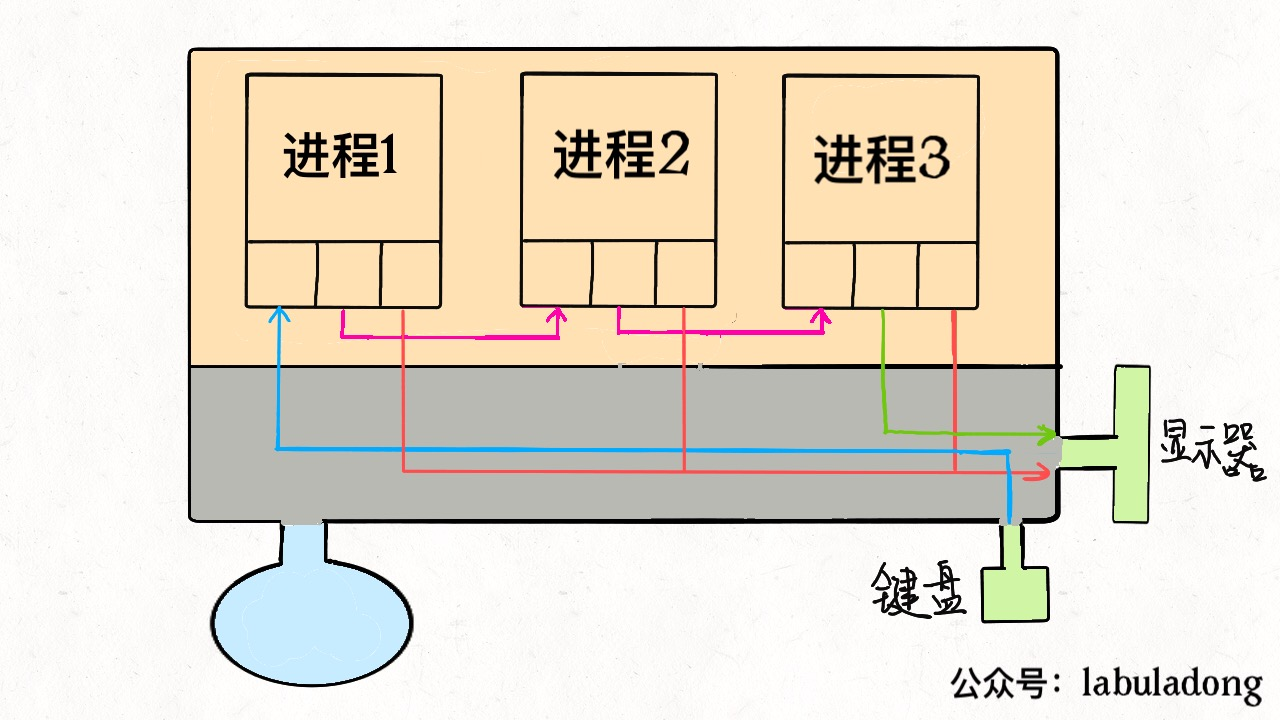
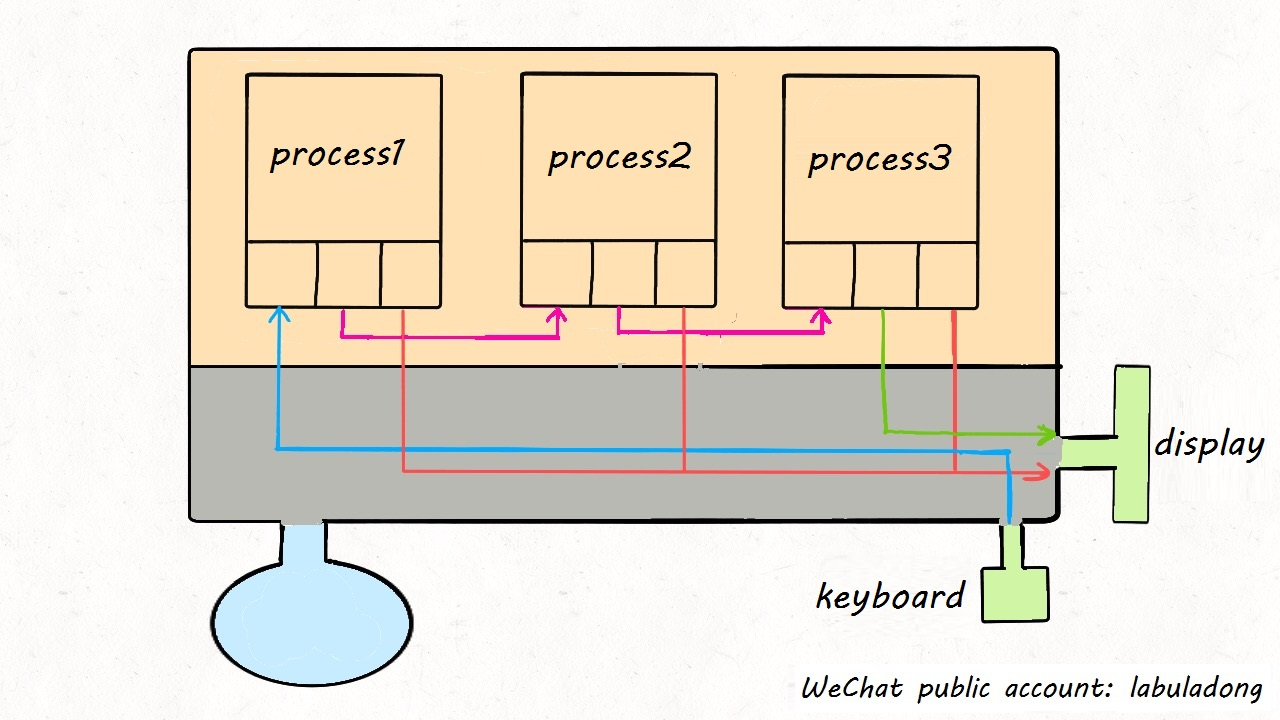
translate linuxProcess.md and modify picture

diff --git a/common_knowledge/linuxProcess.md b/common_knowledge/linuxProcess.md
@@ -1,0 +1,123 @@
+# What are Process, Thread, and File Descriptor in Linux? 
+
+**Translator: [Seaworth](https://github.com/Seaworth)**
+
+**Author: [labuladong](https://github.com/labuladong)**
+
+Speaking of process, I am afraid that the most common problem of interviews is the relationship between thread and process. The answer is: **In Linux systems, there is almost no difference between process and thread**.
+
+A process of Linux is a data structure. You can clearly understand the underlying working principle of file descriptors, redirection, and pipeline commands. Finally, from the perspective of operating system, we can see why there is basically no difference between thread and process.
+
+### 一、What is a process?
+
+First, abstractly, our computer is this thing as follows:
+
+![](../pictures/linuxProcess/1.jpg)
+
+This large rectangle represents the computer's **memory space**, where the small rectangle represents **process**, the circle in the lower left corner represents **disk**, and the graph in the lower right corner represents some **input and output devices** , such as mouse, keyboard, monitor, etc. In addition, it is noted that the memory space is divided into two parts, the upper part represents **user space**, and the lower part represents **kernel space**.
+
+User space holds the resources that the user process needs to use. For example, if you create an array in the program, this array must exist in user space. Kernel space stores system resources that the kernel process needs to load. These resources are generally not allowed to be accessed by users. But some user processes can share some kernel space resources, such as some dynamic link libraries and so on.
+
+We write a hello program in C language, compile it to get an executable file, run it on the command line to display Hello World on the screen, and then exit the program. At the operating system level, a new process is created, which reads the executable file into memory space, executes it, and finally exits.
+
+**The executable program you compiled is just a file**, not a process. The executable file must be loaded into memory and packed into a process to really run. Processes are created by the operating system. Each process has its inherent attributes, such as process ID (PID), process status, open files, etc. After the process is created, ti reads into your program and your program will be executed by the system.
+
+So, how does the operating system create processes? **For the operating system, a process is a data structure**. Let's look directly at the Linux source code:
+
+```cpp
+struct task_struct {
+	// Process status 
+    /* -1 unrunnable, 0 runnable, >0 stopped: */
+	long			  state;
+	// Virtual memory structure
+	struct mm_struct  *mm;
+	// Process number
+	pid_t			  pid;
+	// Pointer to parent process
+	struct task_struct __rcu  *parent;
+	// Children form the list of natural children:
+	struct list_head		children;
+	// Pointer to filesystem information:
+	struct fs_struct		*fs;
+	// Open file information:
+	struct files_struct		*files;
+};
+```
+
+`task_struct` is the description of a process by the Linux kernel, which can also be called `process descriptor`. The [source code](https://github.com/torvalds/linux/blob/master/include/linux/sched.h) is more complicated. So I only intercepted a few common ones here.
+
+The interesting ones are the `mm` pointer and the `files` pointer. The `mm`  pointer refers to the virtual memory of the process, which is where the resources and executable files are loaded. The `files` pointer points to an array containing pointers to all files opened by the process.
+
+### 二、What is a file descriptor?
+
+Let's start with `files`, which is an array of file pointers. Generally, a process will read input from `files[0]`, write output to `files[1]`, and write error information to `files[2]`.
+
+For example, from our perspective, the `printf` function in C is to print characters to the command line, but from the process perspective, it is to write data to `files[1]`. Similarly, the `scanf` function is that the process reads data from `files[0]`.
+
+**When each process is created, the first three bits of `files` are filled with default values, which point to standard input stream, standard output stream, and standard error stream, respectively. We often say `file descriptor` refers to the index of this file pointer array **. So the file descriptor of the program by default : 0 represents standard input (stdin), 1 is standard output (stdout), 2 is standard error (stderr).
+
+We can redraw a picture as follows:
+
+![](../pictures/linuxProcess/2.jpg)
+
+For general computers, input stream is the keyboard, output stream and error stream are both displays. So now this process is connected to the kernel with three wires. Because hardware resources are managed by the kernel, our process needs to let the kernel process access hardware resources through **system calls**.
+
+PS: Don't forget, everything is abstracted into files  in Linux. And devices are also files, which can be read and written.
+
+If the program we wrote needs other resources, such as opening a file for reading and writing, this is also very simple. Make a system call and let the kernel open the file, and this file will be placed in the 4th position of `files`:
+
+![](../pictures/linuxProcess/3.jpg)
+
+Understand this principle, **input redirection** is easy to understand. When the program wants to read data, it will read `files[0]`. So we just point `files[0]` to a file. Then the program will read the data from this file instead of the keyboard. the **less-than character <** is used to redirect the input of a command.
+
+```shell
+$ command < file.txt
+```
+
+![](../pictures/linuxProcess/5.jpg)
+
+Similarly, **output redirection** is to point `files[1]` to a file. So the output of the program will not be written to the display, but to this file. The **greater-than character >** is used for output redirection.
+
+```shell
+$ command > file.txt
+```
+
+![](../pictures/linuxProcess/4.jpg)
+
+Error redirection is the same, so I will not go into details.
+
+**Pipe symbol** is actually the same. It connects the output stream of one process with the input stream of another process, and the data is passed in it. I have to say that this design idea is really beautiful.
+
+```shell
+$ cmd1 | cmd2 | cmd3
+```
+
+![](../pictures/linuxProcess/6.jpg)
+
+At this point, you may also see the clever design idea of **Everything is a file in Linux**. Whether it is a device, a process, a socket, or a real file, all of them can be read and written. And they are loaded into a simple `files` array. The specific details are delivered to the operating system, which is effectively decoupled, beautiful and efficient.
+
+### 三、What is a thread?
+
+The first thing to be clear is that multi-process and multi-thread can achieve concurrency to improve the utilization efficiency of the processor. So the key now is what's the difference between multi-thread and multi-process.
+
+Why is there basically no difference between thread and process in Linux? From the perspective of the Linux kernel, thread and process are not treated differently. 
+
+We know that the system call `fork()` function can create a new child process. And the function `pthread()` can create a new thread. **But both thread and process are represented by the `task_struct` structure. The only difference is the shared data area**.
+
+In other words, threads look no different from processes. It's just that some data areas of a thread are shared with its parent process. However, a child process is a copy, not a share. For example, the `mm` structure and the ` files` structure are shared across threads, I drew two pictures and you will understand.
+
+![](../pictures/linuxProcess/7.jpg)
+
+![](../pictures/linuxProcess/8.jpg)
+
+Therefore, our multi-thread program should use the lock mechanism to avoid multiple threads writing data to the same area at the same time. Otherwise, data may be disordered.
+
+Then you may ask, **Since processes and threads are similar, and multi-process data is not shared, that is, there is no data disorder problem. Why is multi-thread use more common than multi-process?**
+
+Because in reality the concurrency of data sharing is more common. For example, ten people take ten yuan from one account at the same time. What we hope is that the balance of this shared account will be reduced by exactly one hundred yuan. Instead, each person gets a copy of the account, and each copy account is reduced by ten yuan.
+
+Of course, it must be explained that only Linux systems treat thread as process that shares data, and do not treat them specifically, do not treat thread and process differently. Many other operating systems treat thread and process differently. Threads have their own unique data structures. I personally think that this design is not as concise as Linux and increases the complexity of the system.
+
+Creating threads and processes are very efficient in Linux. For the problem of memory area copy, Linux uses the copy-on-write optimization strategy when creating a process. The memory space of parent process is not actually copied, but only copied during the write operation. **So creating processes and threads in Linux are very fast**. 
+
+Stick to original high-quality articles, committed to making algorithmic problems clear. Welcome to follow us on WeChat public account **labuladong** for latest articles.
